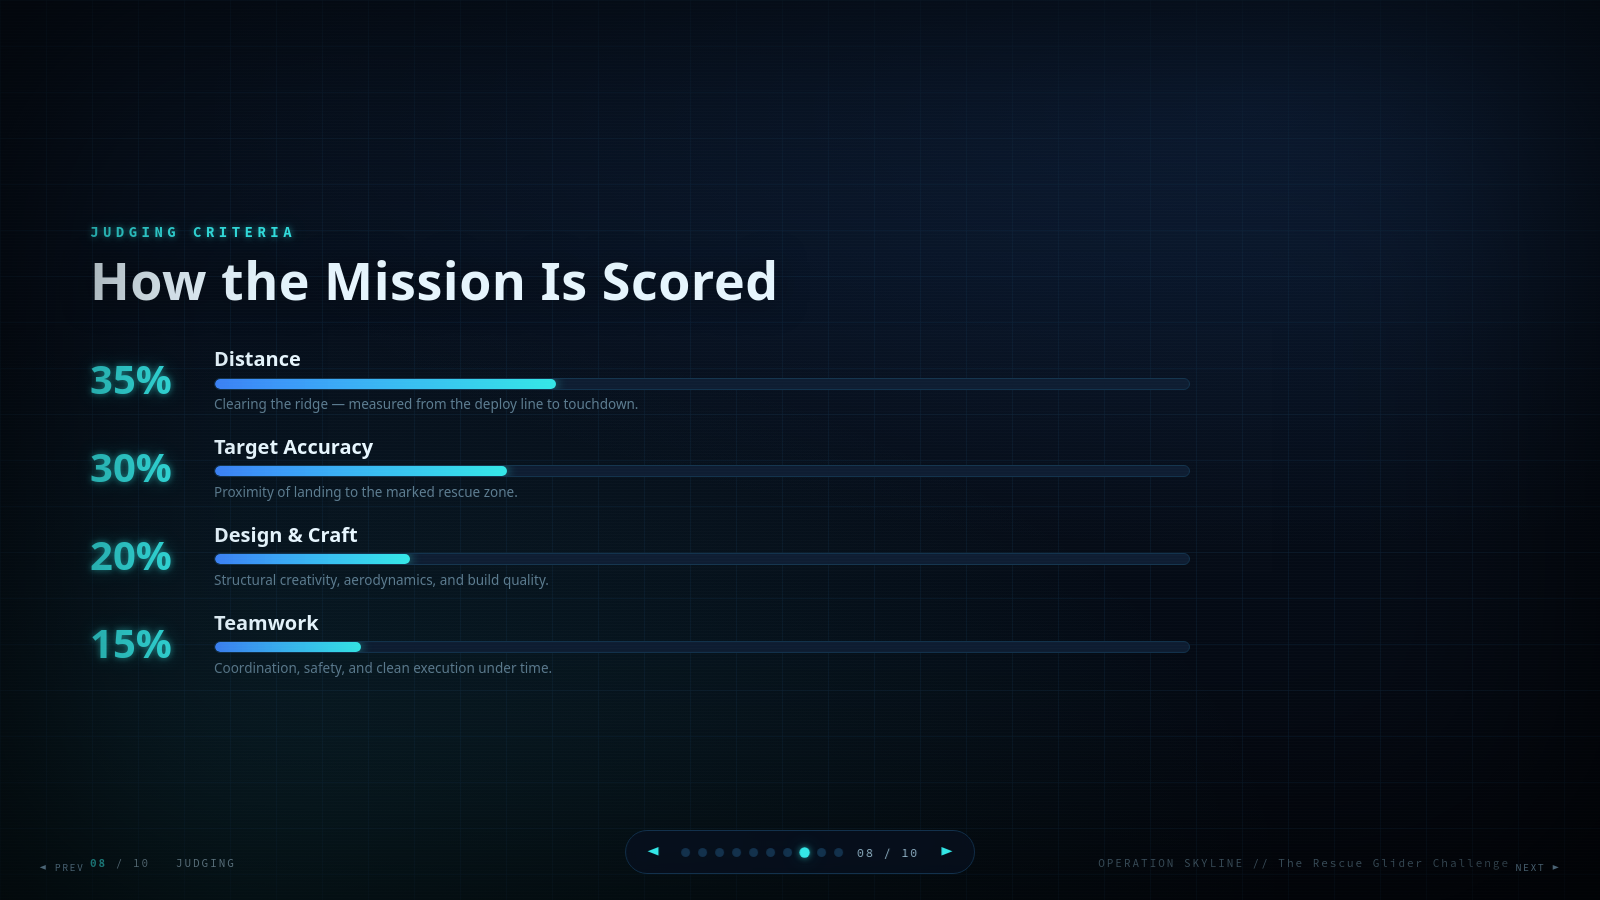
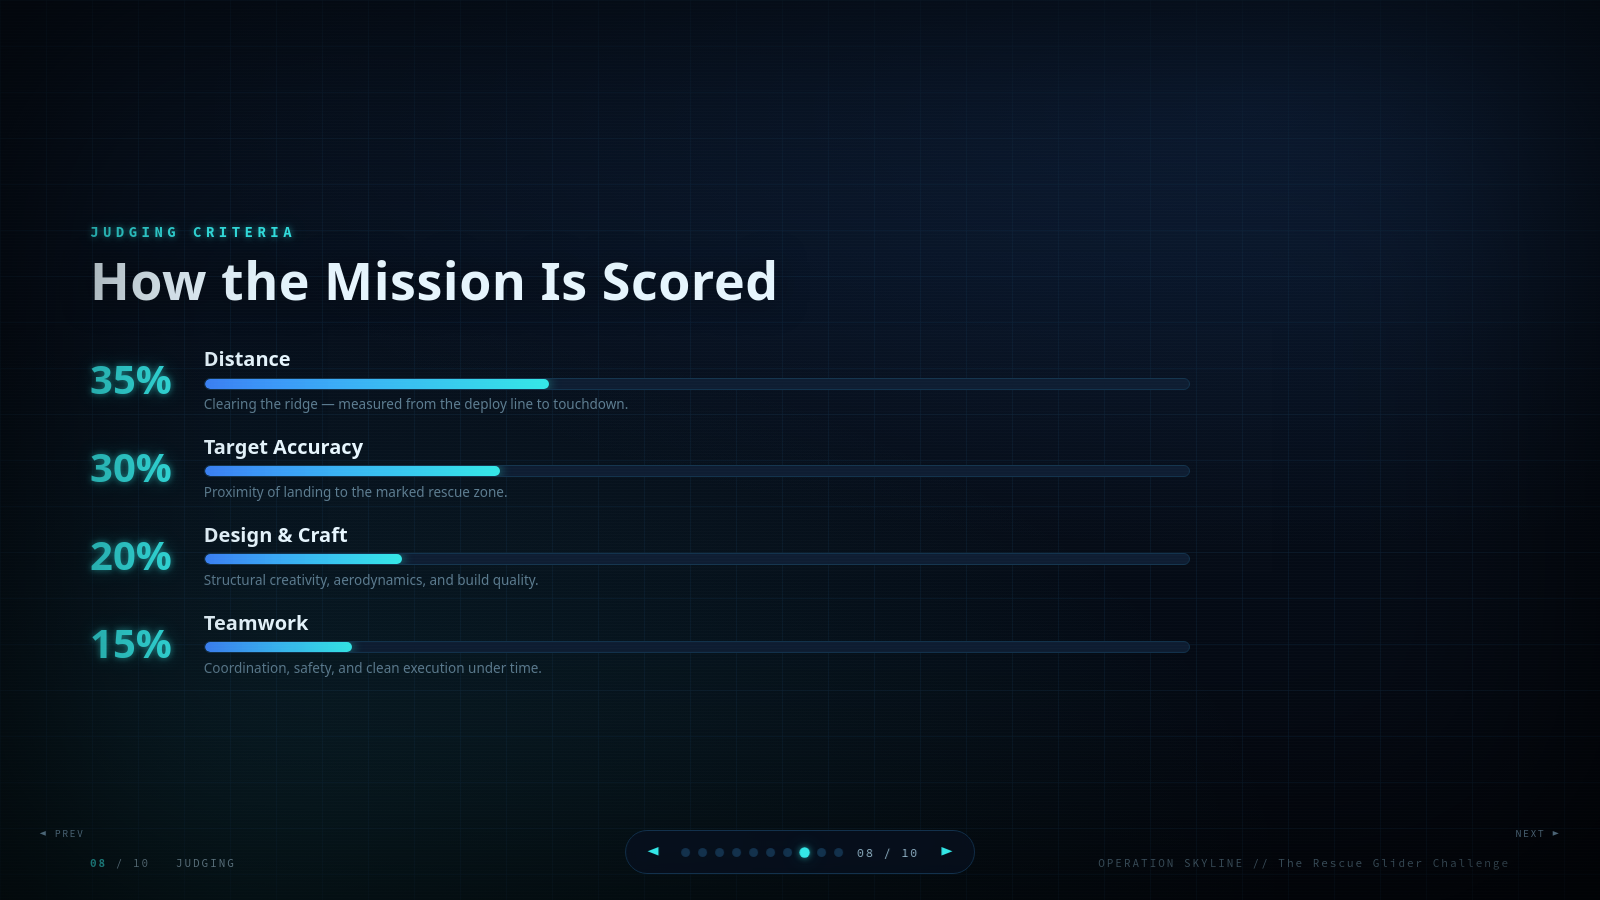
Fix slide 8 % overlap at all widths + lift nav hints off the footer
- Judging slide: the .pct column used a vw-based width that shrank below the
  percentage's own width at ~1024-1280px, so 35%/30%/... overflowed into the
  headings. Switched the grid to a max-content first column (with tabular,
  nowrap pct) so the number always gets exactly its own width at any viewport.
- Lifted the .hint prev/next labels above the footer line; their vw insets
  previously collided with the footer index/title at common widths.

Verified with headless Chromium at 1024/1280/1600px (qa/html-08-judging*.png).

Changed region(s): [[0.125, 0.3733, 0.4062, 0.56], [0.125, 0.6844, 0.3438, 0.7467], [0.125, 0.5911, 0.3438, 0.6533]]

diff --git a/deck.html b/deck.html
@@ -168,11 +168,11 @@
 
   /* judging bars */
   .judge{display:flex; flex-direction:column; gap:min(2.2vh,20px); max-width:1100px;}
-  .jrow{display:grid; grid-template-columns:clamp(58px,6.4vw,94px) 1fr; column-gap:min(2.4vw,30px);
+  .jrow{display:grid; grid-template-columns:max-content 1fr; column-gap:min(2.6vw,32px);
     align-items:center;}
   .jrow .pct{font-family:var(--sans); font-weight:900; color:var(--holo);
     text-shadow:var(--holoGlow); font-size:clamp(26px,3.2vw,40px); line-height:1;
-    white-space:nowrap;}
+    white-space:nowrap; text-align:right; font-variant-numeric:tabular-nums;}
   .jrow .info{display:flex; flex-direction:column; gap:.35em; grid-column:2;}
   .jrow .info .rowtop{display:flex; justify-content:space-between; align-items:baseline; gap:1em;}
   .jrow .info h3{font-family:var(--sans); font-weight:700; color:var(--text);
@@ -278,7 +278,9 @@
   #dots .d.on{background:var(--holo); box-shadow:var(--holoGlow); transform:scale(1.15);}
   #counter{font-family:var(--mono); font-size:12px; letter-spacing:.14em;
     color:var(--textDim); min-width:5.4ch; text-align:center;}
-  .hint{position:fixed; z-index:70; bottom:min(3.2vh,26px);
+  /* sit the prev/next hints above the footer line so they never collide
+     with the footer index/title or the centred nav bar at any width */
+  .hint{position:fixed; z-index:70; bottom:min(7.5vh,60px);
     font-family:var(--mono); font-size:10px; letter-spacing:.14em;
     color:var(--textFaint); opacity:.8;}
   .hint.r{right:min(4vw,40px)} .hint.l{left:min(4vw,40px)}
